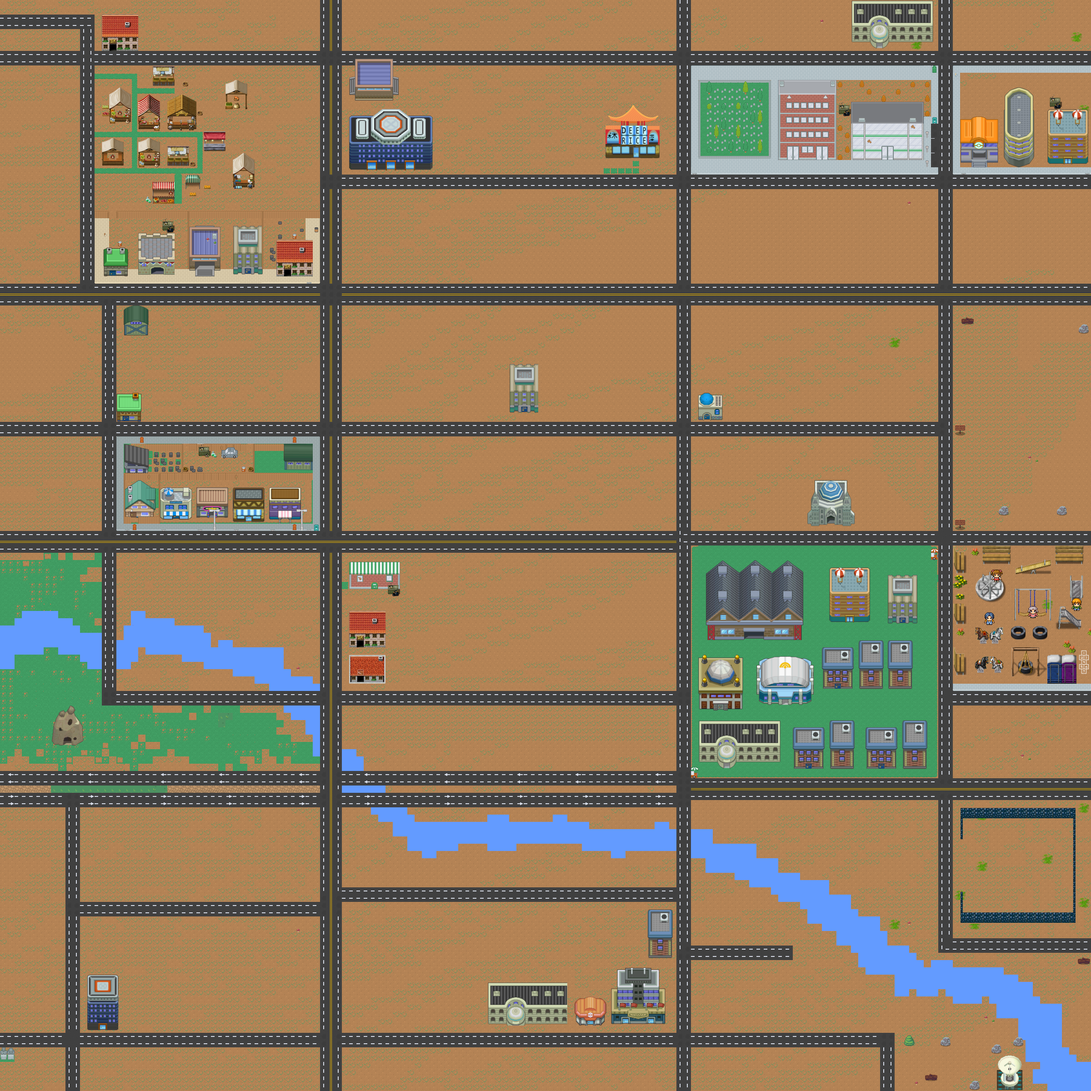
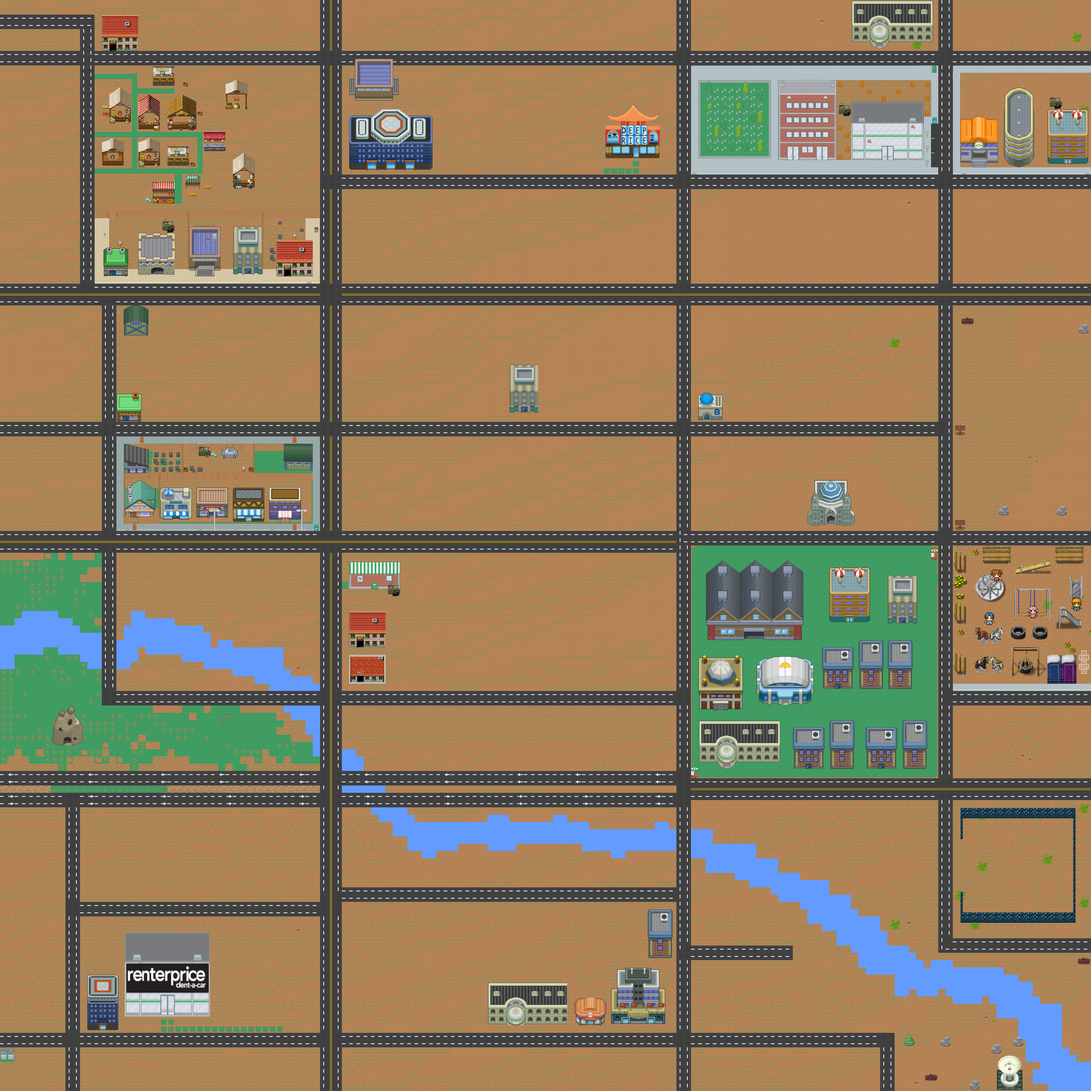
Add car rental to map. Tiled tool sucks.

Changed region(s): [[0.0938, 0.8438, 0.25, 0.9688]]

diff --git a/resources/src/maps/buildings-car-rental.tsx b/resources/src/maps/buildings-car-rental.tsx
@@ -1,0 +1,4 @@
+<?xml version="1.0" encoding="UTF-8"?>
+<tileset version="1.4" tiledversion="1.4.1" name="buildings-car-rental" tilewidth="16" tileheight="16" tilecount="144" columns="12">
+ <image source="assets/buildings-car-rental.png" trans="ff00ff" width="192" height="192"/>
+</tileset>

diff --git a/resources/src/maps/building-car-rental.tsx b/resources/src/maps/building-car-rental.tsx
@@ -1,0 +1,4 @@
+<?xml version="1.0" encoding="UTF-8"?>
+<tileset version="1.4" tiledversion="1.4.1" name="building-car-rental" tilewidth="16" tileheight="16" tilecount="256" columns="16">
+ <image source="assets/buildings-car-rental.png" trans="ff00ff" width="256" height="256"/>
+</tileset>
